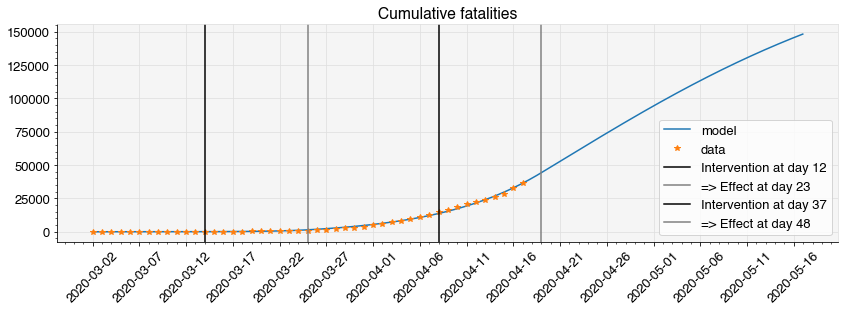
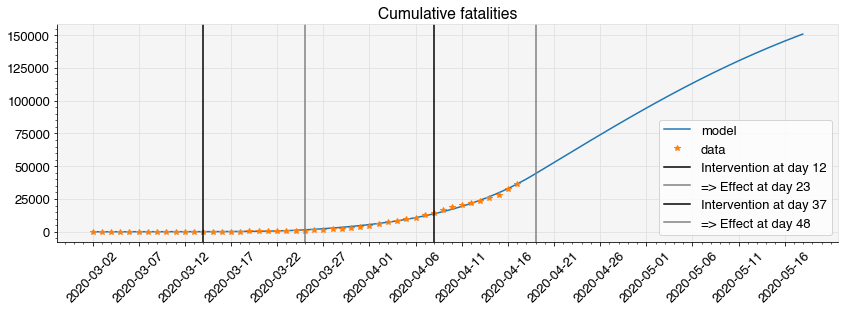
weekly crontab backup

diff --git a/03 - Daily_Report_US.md b/03 - Daily_Report_US.md
@@ -18,14 +18,14 @@ from ne_epidemic.utilities import sir_prediction_from_country
 sir_prediction_from_country('US')
 ```
 
-    Today's date: 2020-04-17 
+    Today's date: 2020-04-18 
     
     Country:  US
     - UCI database:  https://sccm.org/Blog/March-2020/United-States-Resource-Availability-for-COVID-19
     - Total UCI beds:  96596
     - Fatalities database:  https://raw.githubusercontent.com/CSSEGISandData/COVID-19/master/csse_covid_19_data/csse_covid_19_time_series/time_series_covid19_deaths_global.csv
     - First day with more than 5 casualties (m/d/y):  3 / 2 / 2020
-    - Days since first fatalities:  46
+    - Days since first fatalities:  47
 
 
 
@@ -49,19 +49,19 @@ sir_prediction_from_country('US')
     day since start simulation: 37  => beta reduction factor: 0.48
     
     Fitting parameters N0 and beta
-    Initial loss: 1702885
+    Initial loss: 1702854
     Optimization terminated successfully.
-             Current function value: 3818.838366
-             Iterations: 134
-             Function evaluations: 250
+             Current function value: 3849.287653
+             Iterations: 137
+             Function evaluations: 255
     Estimated parameters:
-    N0: 1951
+    N0: 1961
     beta0 (contacts per day): 0.47
     R0: 2.35
     
-    Final loss: 3818
-    Initial/Final % loss: 0.22
-    Normalized Loss (per million persons, per day) 0.248 
+    Final loss: 3849
+    Initial/Final % loss: 0.23
+    Normalized Loss (per million persons, per day) 0.25 
     
     
     _____________________________________________________________________
@@ -70,8 +70,8 @@ sir_prediction_from_country('US')
     
     Model name: optimized 2 pars
     
-    Simulated days: 76.0
-    Initially infected/Total population (N0/N): 1951/327200000 (0.6 per 100,000)
+    Simulated days: 77.0
+    Initially infected/Total population (N0/N): 1961/327200000 (0.6 per 100,000)
     beta (per day): 0.5 , nu (per day): 0.2
     1/beta (days): 2.1 , 1/nu (days): 5.0
     IFR: 0.002
@@ -85,18 +85,18 @@ sir_prediction_from_country('US')
     
     _____________________________________________________________________
     
-    MODEL'S OUTPUTS FOR TODAY: 2020-04-17
-       Infected: 9102097 (2.8%)
-       Recovered: 18219122 (5.6%)
-       Exposed to date: 27321219 (8.4%)
-       In ICU: 22755
-       Fatalities: 36438
+    MODEL'S OUTPUTS FOR TODAY: 2020-04-18
+       Infected: 9848237 (3.0%)
+       Recovered: 20111601 (6.1%)
+       Exposed to date: 29959838 (9.2%)
+       In ICU: 24620
+       Fatalities: 40223
      
-    MEDIUM TERM FORECAST (76 days from model start date): 
-       Percent of population exposed at end simulation: 24%
-       Peak ICU admissions:  26673  on day 2020-04-20
+    MEDIUM TERM FORECAST (77 days from model start date): 
+       Percent of population exposed at end simulation: 25%
+       Peak ICU admissions:  26641  on day 2020-04-20
        (note model does not account for long ICU stays)
-       Total fatalities at end of simulation: 148300
+       Total fatalities at end of simulation: 150809
 
 
 
@@ -122,5 +122,5 @@ sir_prediction_from_country('US')
           The derivative of the quadratic is used to estimate doubling time and R(t).
     Rt estimated from doubling time using nu= 0.2
     
-    Run finished 2020-04-17 22:00:22.837776
+    Run finished 2020-04-18 22:00:22.800009
 

diff --git a/01 - Daily_Report_Spain.md b/01 - Daily_Report_Spain.md
@@ -20,14 +20,14 @@ from ne_epidemic.utilities import sir_prediction_from_country
 sir_prediction_from_country('Spain')
 ```
 
-    Today's date: 2020-04-17 
+    Today's date: 2020-04-18 
     
     Country:  Spain
     - UCI database:  https://raw.githubusercontent.com/datadista/datasets/master/COVID%2019/ccaa_camas_uci_2017.csv
     - Total UCI beds:  4404
     - Fatalities database:  https://raw.githubusercontent.com/CSSEGISandData/COVID-19/master/csse_covid_19_data/csse_covid_19_time_series/time_series_covid19_deaths_global.csv
     - First day with more than 5 casualties (m/d/y):  3 / 7 / 2020
-    - Days since first fatalities:  41
+    - Days since first fatalities:  42
 
 
 
@@ -73,7 +73,7 @@ sir_prediction_from_country('Spain')
     
     Model name: optimized 2 pars
     
-    Simulated days: 101.0
+    Simulated days: 102.0
     Initially infected/Total population (N0/N): 31458/46660000 (67.4 per 100,000)
     beta (per day): 0.4 , nu (per day): 0.2
     1/beta (days): 2.3 , 1/nu (days): 5.0
@@ -89,18 +89,18 @@ sir_prediction_from_country('Spain')
     
     _____________________________________________________________________
     
-    MODEL'S OUTPUTS FOR TODAY: 2020-04-17
-       Infected: 786021 (1.7%)
-       Recovered: 9752779 (20.9%)
-       Exposed to date: 10538800 (22.6%)
-       In ICU: 2200
-       Fatalities: 19505
+    MODEL'S OUTPUTS FOR TODAY: 2020-04-18
+       Infected: 692346 (1.5%)
+       Recovered: 9900419 (21.2%)
+       Exposed to date: 10592765 (22.7%)
+       In ICU: 1938
+       Fatalities: 19800
      
-    MEDIUM TERM FORECAST (101 days from model start date): 
+    MEDIUM TERM FORECAST (102 days from model start date): 
        Percent of population exposed at end simulation: 25%
        Peak ICU admissions:  6413  on day 2020-03-26
        (note model does not account for long ICU stays)
-       Total fatalities at end of simulation: 23478
+       Total fatalities at end of simulation: 23490
 
 
 
@@ -126,5 +126,5 @@ sir_prediction_from_country('Spain')
           The derivative of the quadratic is used to estimate doubling time and R(t).
     Rt estimated from doubling time using nu= 0.2
     
-    Run finished 2020-04-17 21:59:37.712787
+    Run finished 2020-04-18 21:59:38.293474
 

diff --git a/02 - Daily_Report_Italy.md b/02 - Daily_Report_Italy.md
@@ -20,12 +20,12 @@ from ne_epidemic.utilities import sir_prediction_from_country
 sir_prediction_from_country('Italy')
 ```
 
-    Today's date: 2020-04-17 
+    Today's date: 2020-04-18 
     
     Country:  Italy
     - Fatalities database:  https://raw.githubusercontent.com/CSSEGISandData/COVID-19/master/csse_covid_19_data/csse_covid_19_time_series/time_series_covid19_deaths_global.csv
     - First day with more than 5 casualties (m/d/y):  2 / 24 / 2020
-    - Days since first fatalities:  53
+    - Days since first fatalities:  54
 
 
 
@@ -71,7 +71,7 @@ sir_prediction_from_country('Italy')
     
     Model name: optimized 2 pars
     
-    Simulated days: 74.0
+    Simulated days: 75.0
     Initially infected/Total population (N0/N): 13263/60480000 (21.9 per 100,000)
     beta (per day): 0.4 , nu (per day): 0.2
     1/beta (days): 2.3 , 1/nu (days): 5.0
@@ -87,18 +87,18 @@ sir_prediction_from_country('Italy')
     
     _____________________________________________________________________
     
-    MODEL'S OUTPUTS FOR TODAY: 2020-04-17
-       Infected: 1162968 (1.9%)
-       Recovered: 13377652 (22.1%)
-       Exposed to date: 14540620 (24.0%)
-       In ICU: 1453
-       Fatalities: 22296
+    MODEL'S OUTPUTS FOR TODAY: 2020-04-18
+       Infected: 1105664 (1.8%)
+       Recovered: 13604478 (22.5%)
+       Exposed to date: 14710142 (24.3%)
+       In ICU: 1382
+       Fatalities: 22674
      
-    MEDIUM TERM FORECAST (74 days from model start date): 
+    MEDIUM TERM FORECAST (75 days from model start date): 
        Percent of population exposed at end simulation: 27%
        Peak ICU admissions:  3263  on day 2020-03-29
        (note model does not account for long ICU stays)
-       Total fatalities at end of simulation: 27200
+       Total fatalities at end of simulation: 27320
 
 
 
@@ -124,7 +124,7 @@ sir_prediction_from_country('Italy')
           The derivative of the quadratic is used to estimate doubling time and R(t).
     Rt estimated from doubling time using nu= 0.2
     
-    Run finished 2020-04-17 21:59:58.069608
+    Run finished 2020-04-18 21:59:57.571399
 
 
 

diff --git a/00 - Data_Overview.md b/00 - Data_Overview.md
@@ -24,7 +24,7 @@ _ = get_doubling_time(df, nu=1/5, ndays=7)
 
     - Fatalities database:  https://raw.githubusercontent.com/CSSEGISandData/COVID-19/master/csse_covid_19_data/csse_covid_19_time_series/time_series_covid19_deaths_global.csv
     - First day with more than 5 casualties (m/d/y):  3 / 7 / 2020
-    - Days since first fatalities:  41
+    - Days since first fatalities:  42
 
 
 
@@ -59,7 +59,7 @@ _ = get_doubling_time(df, nu=1/5, ndays=7)
 
     - Fatalities database:  https://raw.githubusercontent.com/CSSEGISandData/COVID-19/master/csse_covid_19_data/csse_covid_19_time_series/time_series_covid19_deaths_global.csv
     - First day with more than 5 casualties (m/d/y):  2 / 24 / 2020
-    - Days since first fatalities:  53
+    - Days since first fatalities:  54
 
 
 
@@ -94,7 +94,7 @@ _ = get_doubling_time(df, nu=1/5, ndays=7)
 
     - Fatalities database:  https://raw.githubusercontent.com/CSSEGISandData/COVID-19/master/csse_covid_19_data/csse_covid_19_time_series/time_series_covid19_deaths_global.csv
     - First day with more than 5 casualties (m/d/y):  3 / 20 / 2020
-    - Days since first fatalities:  28
+    - Days since first fatalities:  29
 
 
 
@@ -129,7 +129,7 @@ _ = get_doubling_time(df, nu=1/5, ndays=7)
 
     - Fatalities database:  https://raw.githubusercontent.com/CSSEGISandData/COVID-19/master/csse_covid_19_data/csse_covid_19_time_series/time_series_covid19_deaths_global.csv
     - First day with more than 5 casualties (m/d/y):  3 / 5 / 2020
-    - Days since first fatalities:  43
+    - Days since first fatalities:  44
 
 
 
@@ -164,7 +164,7 @@ _ = get_doubling_time(df, nu=1/5, ndays=7)
 
     - Fatalities database:  https://raw.githubusercontent.com/CSSEGISandData/COVID-19/master/csse_covid_19_data/csse_covid_19_time_series/time_series_covid19_deaths_global.csv
     - First day with more than 5 casualties (m/d/y):  3 / 2 / 2020
-    - Days since first fatalities:  46
+    - Days since first fatalities:  47
 
 
 
